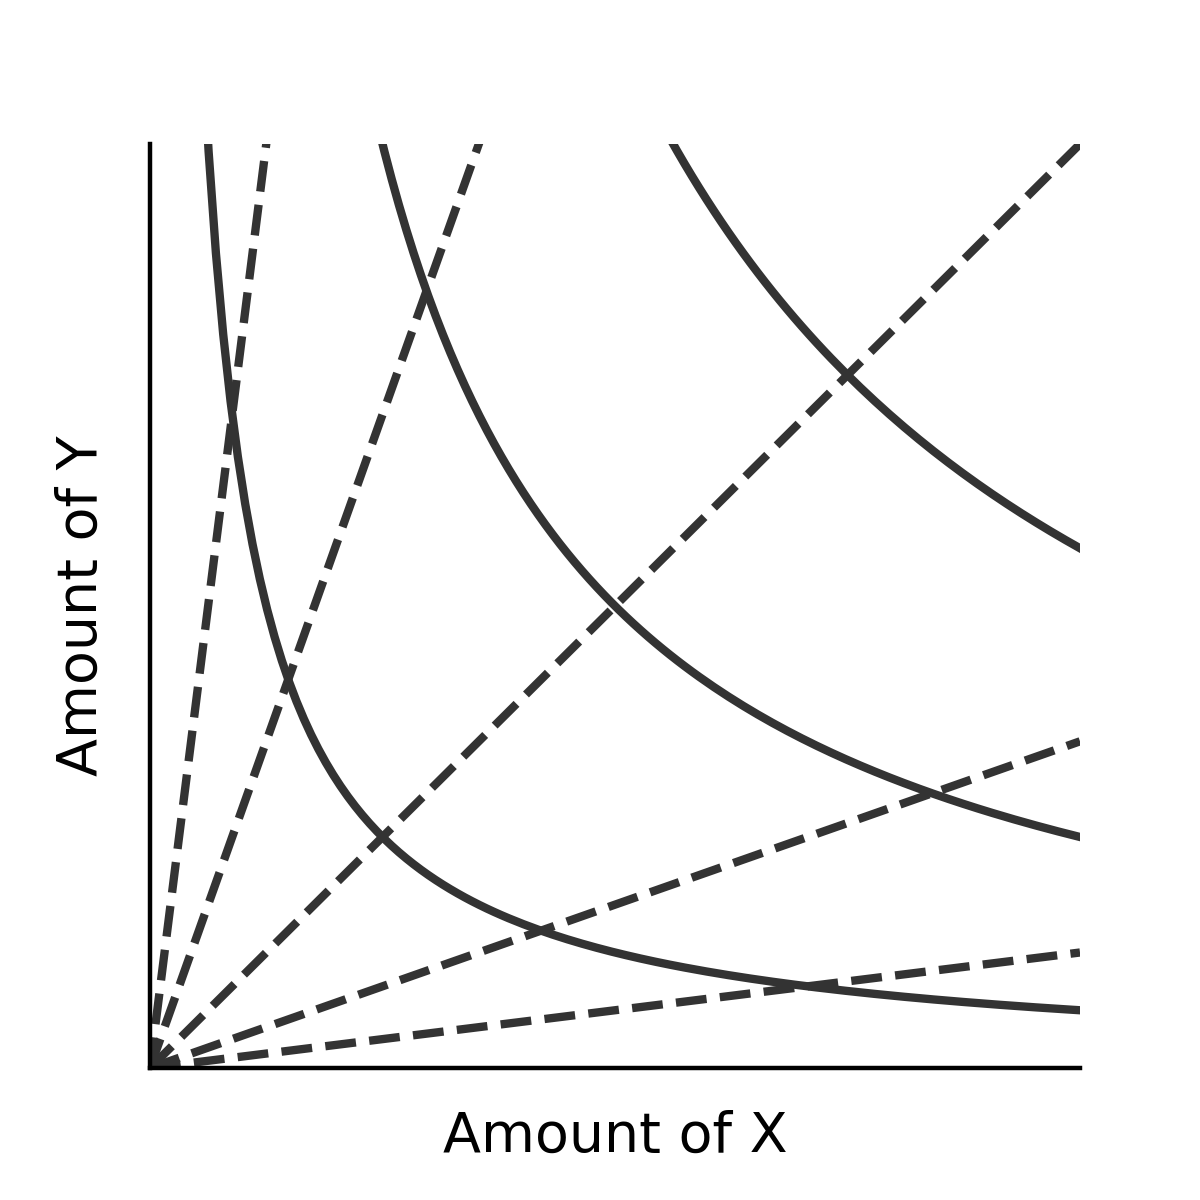
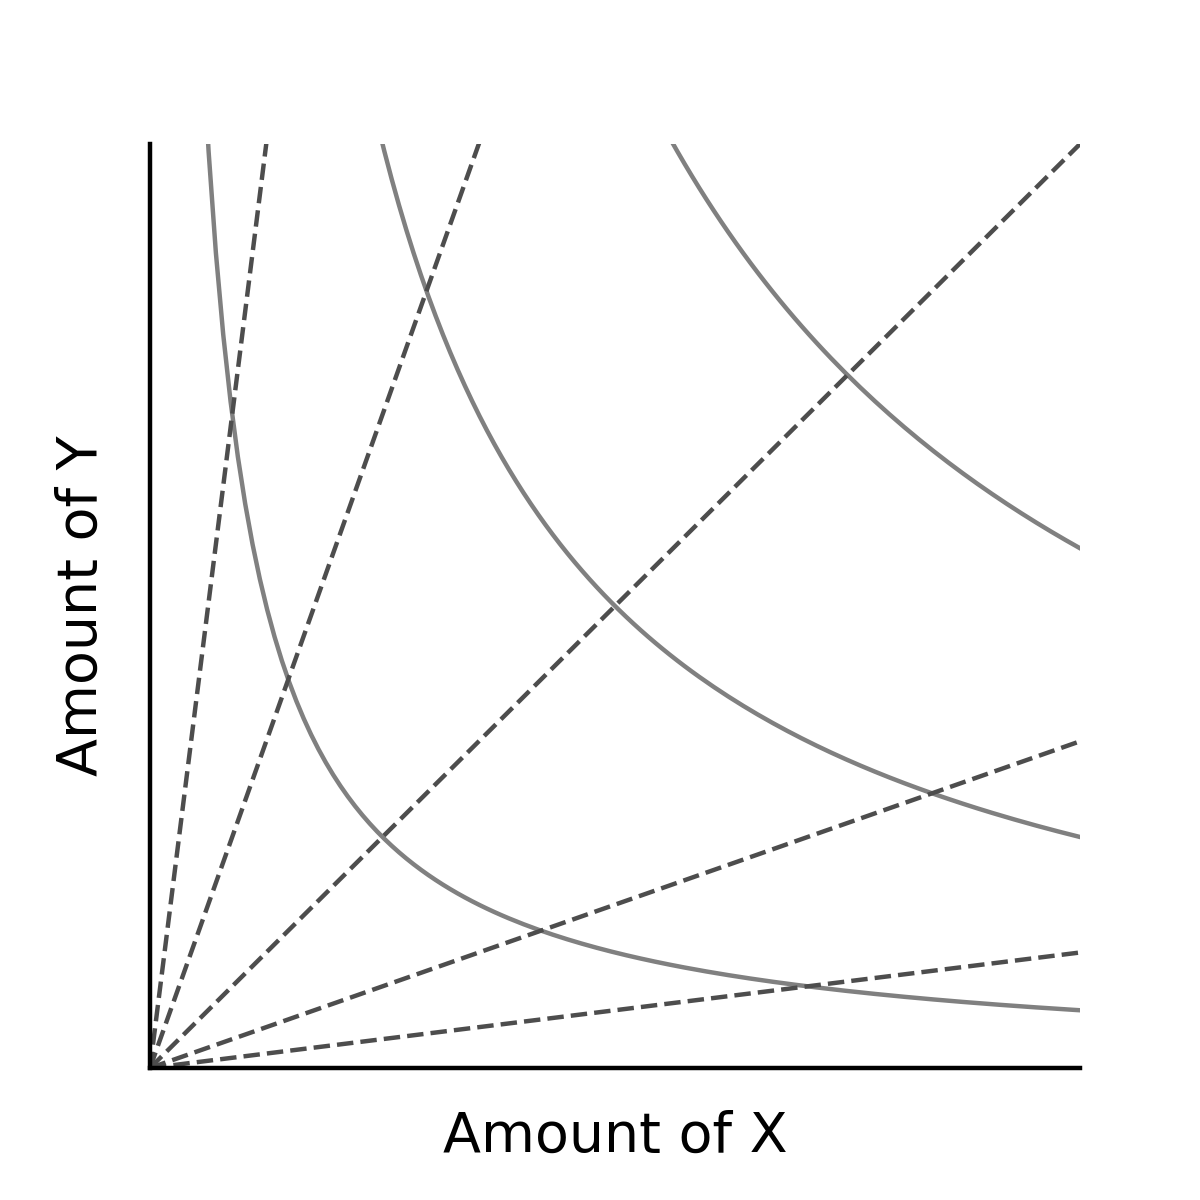
Improve plots

diff --git a/posts/uniswap_v3_conceptually/_fig00.py b/posts/uniswap_v3_conceptually/_fig00.py
@@ -26,8 +26,8 @@ xf, yf = x[idxf], y[idxf]
 ax.plot(x, y, c="k", zorder=0)
 plot_dot(ax, xi, yi, (0, .5, .8))
 plot_dot(ax, xf, yf, (0, .8, .3))
-ax.plot([xi, xf], [yi, yi], c=(.2, .2, .2), ls='--', zorder=-1)
+ax.plot([xi, xf], [yi, yi], c=(.2, .2, .2), ls='--', zorder=-1, lw=.8)
 ax.text(.35 * xi + .5 * xf, yi * 1.05, "Δx")
-ax.plot([xf, xf], [yi, yf], c=(.2, .2, .2), ls='--', zorder=-1)
+ax.plot([xf, xf], [yi, yf], c=(.2, .2, .2), ls='--', zorder=-1, lw=.8)
 ax.text(xf * 1.05, .48 * yi + .5 * yf, "Δy")
 fig.savefig("fig00.png", dpi=400)

diff --git a/posts/uniswap_v3_conceptually/_fig01.py b/posts/uniswap_v3_conceptually/_fig01.py
@@ -19,12 +19,12 @@ ls = np.linspace(0, 1, 5)[1:]
 for l in ls:
     x = np.linspace(0, 1, 128)
     y = l ** 2 / x
-    ax.plot(x, y, color=(.2, .2, .2), ls='-')
+    ax.plot(x, y, color=(.5, .5, .5), ls='-', lw=.8)
 
 ps = 2 ** np.linspace(-3, 3, 5)
 for p in ps:
     x = np.linspace(0, 1, 128)
     y = p * x
-    ax.plot(x, y, color=(.2, .2, .2), ls='--')
+    ax.plot(x, y, color=(.3, .3, .3), ls='--', lw=.8)
 
 fig.savefig("fig01.png", dpi=400)

diff --git a/posts/uniswap_v3_conceptually/_fig02.py b/posts/uniswap_v3_conceptually/_fig02.py
@@ -19,8 +19,8 @@ l = 1
 x = np.linspace(1/1.5, 1.5, 128)
 y = l ** 2 / x
 ax.plot(x, y, color=(0, 0, 0), ls='-')
-ax.plot([0, x[0]], [0, y[0]], color=(.2, .2, .2), ls='--')
-ax.plot([0, x[-1]], [0, y[-1]], color=(.2, .2, .2), ls='--')
+ax.plot([0, x[0]], [0, y[0]], color=(.2, .2, .2), ls='--', lw=.8)
+ax.plot([0, x[-1]], [0, y[-1]], color=(.2, .2, .2), ls='--', lw=.8)
 plot_dot(ax, 1, 1, color=(.6, .3, .2))
 
 fig.savefig("fig02.png", dpi=400)
